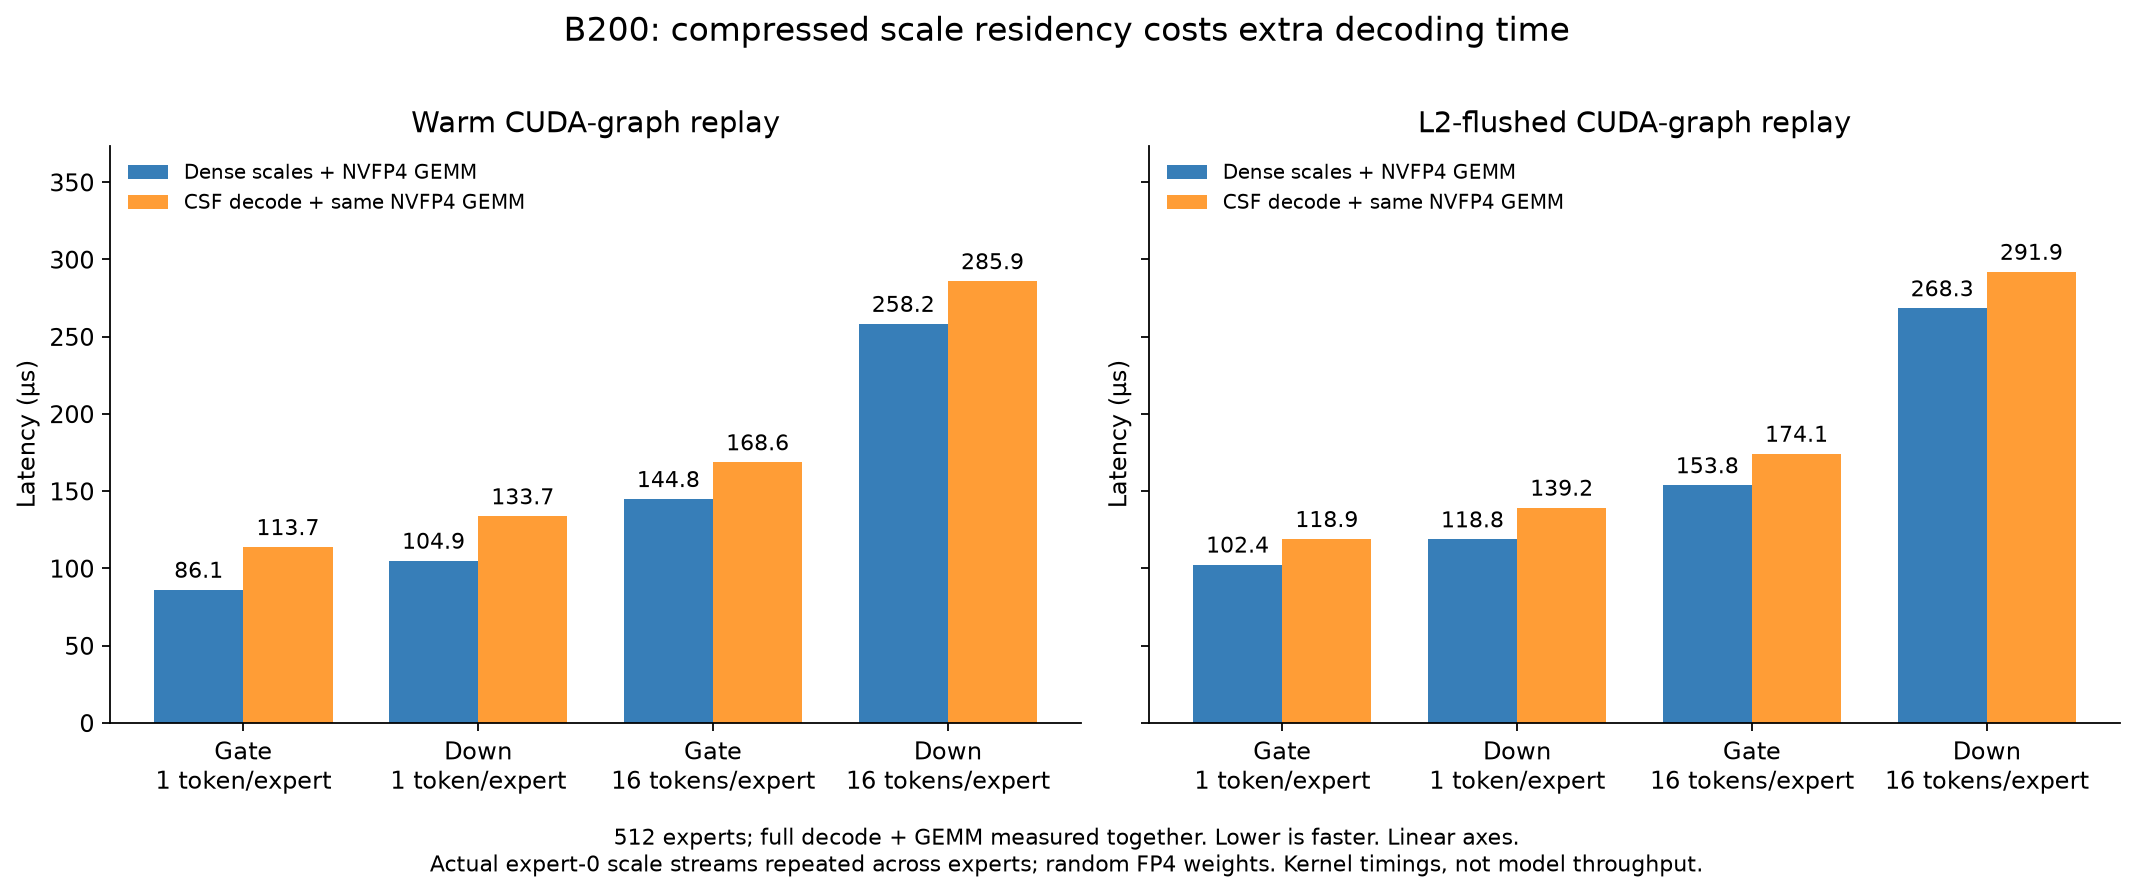
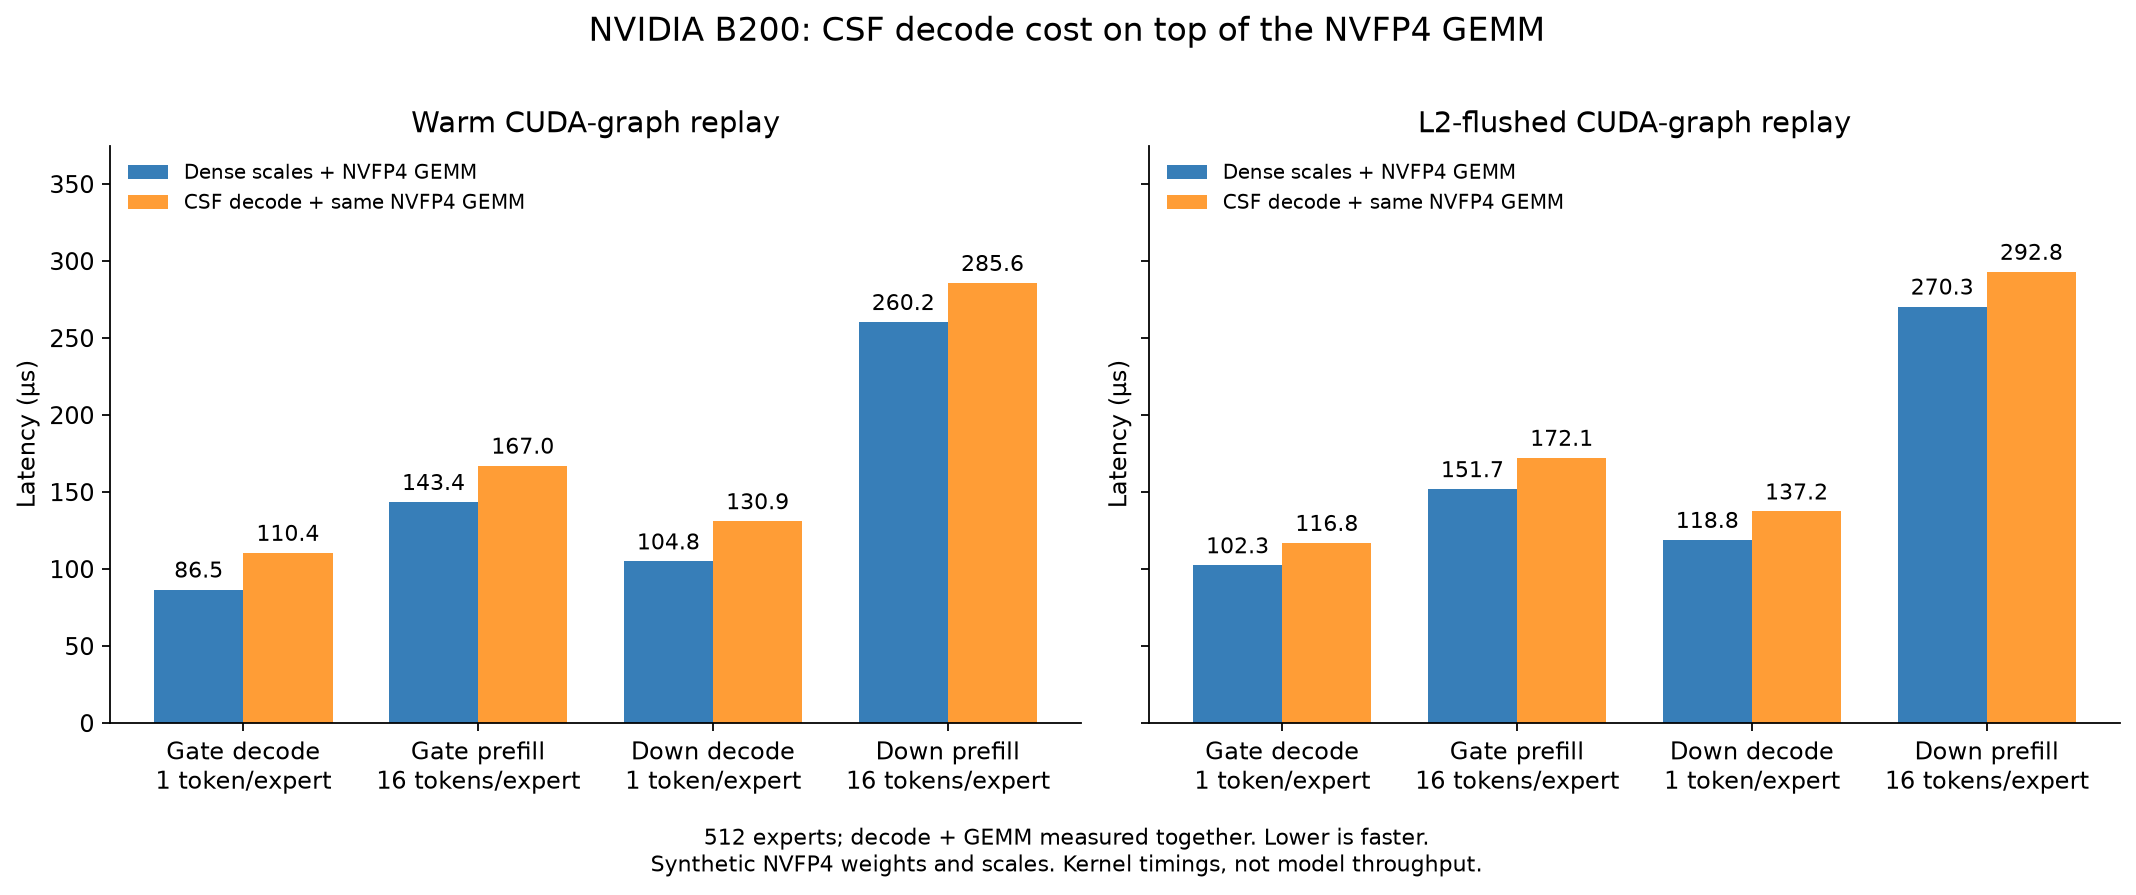
Add CSF bench script and tighten CSF prepare/decode docs and checks
bench/bench_moe_csf.py measures dense vs CSF decode + NVFP4 GEMM and
regenerates both figures (results in bench_moe_csf.json). Document the
CSF stream layout and returns, explain the exception patch pass, drop
decoder checks that prepare already guarantees, and split the test
fixture into prepare_csf.

diff --git a/finegrained-kernels/bench/bench_moe_csf.py b/finegrained-kernels/bench/bench_moe_csf.py
@@ -1,0 +1,250 @@
+# Copyright 2026 The HuggingFace Inc. team. All rights reserved.
+#
+# Licensed under the Apache License, Version 2.0 (the "License");
+# you may not use this file except in compliance with the License.
+# You may obtain a copy of the License at
+#
+#     http://www.apache.org/licenses/LICENSE-2.0
+#
+# Unless required by applicable law or agreed to in writing, software
+# distributed under the License is distributed on an "AS IS" BASIS,
+# WITHOUT WARRANTIES OR CONDITIONS OF ANY KIND, either express or implied.
+# See the License for the specific language governing permissions and
+# limitations under the License.
+"""NVFP4 CSF scales: decode + GEMM latency and scale memory against dense scales.
+
+Two 512-expert MoE projections (gate: N=640, K=2560; down: N=2560, K=640) are quantized per
+expert from random bf16 weights with ``nvfp4_quantize_two_level``, and their E4M3 scales are
+CSF-encoded with the tests' fixture encoder. Both arms run the same NVFP4 GEMM:
+
+  dense   dense scales resident
+  csf     ``decompress_nvfp4_csf_scales`` into one shared workspace, then the GEMM
+
+Decode routes 1 token per expert through ``matmul_batched``; prefill routes ``--prefill``
+tokens per expert through ``matmul_grouped``. Each arm is captured in a CUDA graph and timed
+warm (``do_bench_cudagraph``) and L2-flushed (``do_bench`` on the replay, which clears L2
+outside the timed interval). Tuning finishes before timing. The csf arm's scales and outputs
+are checked bit-identical to the dense arm's.
+
+Scales come from synthetic weights. How well CSF compresses depends on how far the scale
+bytes spread within a row, so real checkpoints can compress better or worse.
+
+Writes ``bench/bench_moe_csf.json``, ``bench/bench_moe_csf_latency.png`` and
+``bench/bench_moe_csf_memory.png`` beside this file.
+
+Run: python bench/bench_moe_csf.py                 (measure, then plot)
+     python bench/bench_moe_csf.py --replot        (rebuild the figures from the JSON)
+"""
+
+import argparse
+import json
+import os
+import sys
+
+_ROOT = os.path.dirname(os.path.dirname(os.path.abspath(__file__)))
+sys.path.insert(0, os.path.join(_ROOT, "torch-ext"))
+sys.path.insert(0, os.path.join(_ROOT, "tests"))
+
+import torch  # noqa: E402
+
+import finegrained_kernels  # noqa: E402
+from finegrained_kernels.quant import nvfp4_quantize_two_level  # noqa: E402
+from utils import encode_csf_scales  # noqa: E402  tests/utils.py fixture encoder
+
+OUT_DIR = os.path.dirname(os.path.abspath(__file__))
+RESULTS = os.path.join(OUT_DIR, "bench_moe_csf.json")
+PROJECTIONS = (("gate", 640, 2560), ("down", 2560, 640))
+BLUE, ORANGE, GRAY = "#377eb8", "#ff9d36", "#969696"
+
+
+def latency(fn):
+    """Warm and L2-flushed CUDA-graph replay of ``fn``, in microseconds."""
+    from triton.testing import do_bench, do_bench_cudagraph
+
+    fn()
+    torch.cuda.synchronize()
+    graph = torch.cuda.CUDAGraph()
+    with torch.cuda.graph(graph):
+        fn()
+    return dict(
+        warm_us=1000 * do_bench_cudagraph(fn, rep=200),
+        cold_us=1000 * do_bench(graph.replay, warmup=100, rep=200, return_mode="median"),
+    )
+
+
+def quantize_stack(experts, N, K):
+    """Per-expert two-level NVFP4: packed weights, E4M3 scales and fp32 globals."""
+    weights, scales, globals_ = [], [], []
+    for _ in range(experts):
+        packed, scale, global_scale = nvfp4_quantize_two_level(
+            torch.randn(N, K, device="cuda", dtype=torch.bfloat16)
+        )
+        weights.append(packed)
+        scales.append(scale)
+        globals_.append(global_scale.reshape(()))
+    return torch.stack(weights), torch.stack(scales), torch.stack(globals_).float()
+
+
+def measure(args):
+    torch.manual_seed(1234)
+    records = []
+    for projection, N, K in PROJECTIONS:
+        weights, dense, global_scale = quantize_stack(args.experts, N, K)
+        fixed, exceptions = encode_csf_scales(dense)
+        streams = finegrained_kernels.prepare_nvfp4_csf_scales(
+            fixed.cuda(), [stream.cuda() for stream in exceptions]
+        )
+        workspace = torch.empty_like(dense)
+        decoded = finegrained_kernels.decompress_nvfp4_csf_scales(*streams)
+        assert torch.equal(decoded.view(torch.uint8), dense.view(torch.uint8))
+        memory = dict(
+            csf_bytes=sum(t.numel() * t.element_size() for t in streams),
+            dense_bytes=dense.numel(),
+        )
+        for regime, tokens in (("decode", 1), ("prefill", args.prefill)):
+            A = torch.randn(
+                tokens * args.experts, K, device="cuda", dtype=torch.bfloat16
+            )
+            kwargs = dict(activation_format="nvfp4", b_global_scale=global_scale)
+            if regime == "decode":
+                op = finegrained_kernels.matmul_batched
+                kwargs["expert_ids"] = torch.arange(
+                    args.experts, device="cuda", dtype=torch.int32
+                )
+            else:
+                op = finegrained_kernels.matmul_grouped
+                kwargs["expert_start"] = tokens * torch.arange(
+                    args.experts + 1, device="cuda", dtype=torch.int32
+                )
+
+            def run_dense():
+                return op(A, weights, Bs=dense, **kwargs)
+
+            def run_csf():
+                finegrained_kernels.decompress_nvfp4_csf_scales(*streams, out=workspace)
+                return op(A, weights, Bs=workspace, **kwargs)
+
+            assert torch.equal(run_csf(), run_dense())
+            record = dict(
+                device=torch.cuda.get_device_name(),
+                projection=projection,
+                N=N,
+                K=K,
+                experts=args.experts,
+                regime=regime,
+                tokens_per_expert=tokens,
+                **memory,
+                dense=latency(run_dense),
+                csf=latency(run_csf),
+            )
+            print(json.dumps(record), flush=True)
+            records.append(record)
+    with open(RESULTS, "w") as f:
+        json.dump(records, f, indent=2)
+    return records
+
+
+def plot(records):
+    import matplotlib
+
+    matplotlib.use("Agg")
+    import matplotlib.pyplot as plt
+    import numpy as np
+
+    plt.rcParams.update(
+        {"font.size": 11, "axes.spines.top": False, "axes.spines.right": False}
+    )
+    device, experts = records[0]["device"], records[0]["experts"]
+    sizes = {r["projection"]: r for r in records}
+    dense_mb = [sizes[p]["dense_bytes"] / 1e6 for p, _, _ in PROJECTIONS]
+    csf_mb = [sizes[p]["csf_bytes"] / 1e6 for p, _, _ in PROJECTIONS]
+    workspace_mb = max(dense_mb)
+
+    fig, axes = plt.subplots(1, 2, figsize=(13.5, 5.0))
+    ax = axes[0]
+    x = np.arange(len(PROJECTIONS))
+    ax.bar_label(ax.bar(x - 0.19, dense_mb, 0.38, label="Dense scales", color=BLUE), fmt="%.2f", padding=3)
+    ax.bar_label(ax.bar(x + 0.19, csf_mb, 0.38, label="CSF streams", color=ORANGE), fmt="%.2f", padding=3)
+    ax.set(
+        xticks=x,
+        xticklabels=[f"{p.title()} projection" for p, _, _ in PROJECTIONS],
+        ylabel="Scale storage (MB, decimal)",
+        ylim=(0, max(dense_mb) * 1.25),
+        title="Stored scales per expert stack",
+    )
+    ax.legend(frameon=False, loc="upper right")
+    ax = axes[1]
+    layers = np.array([1, 2, 4, 8, 16])
+    x = np.arange(len(layers))
+    dense = layers * sum(dense_mb)
+    csf = layers * sum(csf_mb)
+    ax.bar_label(ax.bar(x - 0.19, dense, 0.38, label="Dense scales", color=BLUE), fmt="%.0f", padding=3, fontsize=9)
+    ax.bar(x + 0.19, csf, 0.38, label="CSF streams", color=ORANGE)
+    bars = ax.bar(
+        x + 0.19, np.full(len(x), workspace_mb), 0.38, bottom=csf,
+        label="One shared dense workspace", color=GRAY, hatch="///", edgecolor="white",
+    )
+    ax.bar_label(bars, labels=[f"{v:.0f}" for v in csf + workspace_mb], padding=3, fontsize=9)
+    ax.set(
+        xticks=x,
+        xticklabels=layers,
+        xlabel="Resident layers (one gate + down stack per layer)",
+        ylabel="Scales + shared workspace (MB)",
+        ylim=(0, max(dense) * 1.18),
+        title="Reusing one workspace across layers",
+    )
+    ax.legend(frameon=False, fontsize=9)
+    fig.suptitle(f"NVFP4 CSF scale memory — {experts} experts, scale tensors only", fontsize=15, y=1.01)
+    fig.text(
+        0.5, -0.06,
+        "Synthetic scales from random weights; the right panel scales the measured per-stack sizes.\n"
+        "FP4 weights, activations and other model memory are excluded. Compression is lossless.",
+        ha="center", fontsize=10,
+    )
+    fig.tight_layout()
+    fig.savefig(os.path.join(OUT_DIR, "bench_moe_csf_memory.png"), dpi=160, bbox_inches="tight")
+    plt.close(fig)
+
+    fig, axes = plt.subplots(1, 2, figsize=(13.5, 5.0), sharey=True)
+    for ax, key, title in zip(
+        axes, ("warm_us", "cold_us"), ("Warm CUDA-graph replay", "L2-flushed CUDA-graph replay")
+    ):
+        x = np.arange(len(records))
+        dense = [r["dense"][key] for r in records]
+        csf = [r["csf"][key] for r in records]
+        ax.bar_label(ax.bar(x - 0.19, dense, 0.38, color=BLUE, label="Dense scales + NVFP4 GEMM"), fmt="%.1f", padding=3, fontsize=10)
+        ax.bar_label(ax.bar(x + 0.19, csf, 0.38, color=ORANGE, label="CSF decode + same NVFP4 GEMM"), fmt="%.1f", padding=3, fontsize=10)
+        labels = [
+            f"{r['projection'].title()} {r['regime']}\n{r['tokens_per_expert']} token{'s' if r['tokens_per_expert'] != 1 else ''}/expert"
+            for r in records
+        ]
+        ax.set(xticks=x, xticklabels=labels, ylabel="Latency (µs)", title=title, ylim=(0, max(dense + csf) * 1.28))
+        ax.legend(frameon=False, fontsize=9, loc="upper left")
+    fig.suptitle(f"{device}: CSF decode cost on top of the NVFP4 GEMM", fontsize=15, y=1.01)
+    fig.text(
+        0.5, -0.06,
+        f"{experts} experts; decode + GEMM measured together. Lower is faster.\n"
+        "Synthetic NVFP4 weights and scales. Kernel timings, not model throughput.",
+        ha="center", fontsize=10,
+    )
+    fig.tight_layout()
+    fig.savefig(os.path.join(OUT_DIR, "bench_moe_csf_latency.png"), dpi=160, bbox_inches="tight")
+    plt.close(fig)
+
+
+def main():
+    parser = argparse.ArgumentParser(description=__doc__, formatter_class=argparse.RawDescriptionHelpFormatter)
+    parser.add_argument("--experts", type=int, default=512)
+    parser.add_argument("--prefill", type=int, default=16, help="tokens per expert in the prefill regime")
+    parser.add_argument("--replot", action="store_true", help="rebuild the figures from the JSON")
+    args = parser.parse_args()
+    if args.replot:
+        with open(RESULTS) as f:
+            records = json.load(f)
+    else:
+        records = measure(args)
+    plot(records)
+
+
+if __name__ == "__main__":
+    main()

diff --git a/finegrained-kernels/torch-ext/finegrained_kernels/loading/scales.py b/finegrained-kernels/torch-ext/finegrained_kernels/loading/scales.py
@@ -340,12 +340,28 @@ def prepare_nvfp4_csf_scales(
 ) -> tuple[torch.Tensor, torch.Tensor, torch.Tensor]:
     """Prepare one matrix or an expert stack without expanding or moving its scales.
 
-    `fixed` is uint8 `[rows/16, 16*(1+cols/2)]`, or the same shape with an
-    expert dimension. Exceptions are uint32 `[count]` for one matrix, or one
-    tensor per expert; low 24 bits locate a scale and high 8 bits replace it.
-    Returns (fixed, concatenated exceptions, expert offsets) on the input device.
-    Decode on the accelerator at load time for dense residency, or into shared
-    scratch immediately before GEMM.
+    CSF stores each row of E4M3 scale bytes as a base plus 4-bit deltas, which is
+    lossless whenever a row's bytes span at most 16 codes; the rest are exceptions.
+
+    - `fixed` is uint8 `[rows/16, 16*(1+cols/2)]`, or the same shape with a leading
+      expert dimension. Each 16-row slab holds 16 row bases (bytes 0..240), then those
+      rows' deltas, two per byte (even column in the low nibble). Scale `(r, c)` decodes
+      to byte `base[r] + delta[r, c]`.
+    - `exceptions` is one uint32 `[count]` tensor for a matrix, or one per expert, for
+      the scales outside their row's window. Each word is `position | byte << 24`:
+      the low 24 bits are the row-major index `r * cols + c` (sorted and unique), the
+      high 8 bits are the exact E4M3 byte, which overwrites the decoded value.
+
+    Returns, on the input device:
+
+    - `fixed`: contiguous `[experts, rows/16, 16*(1+cols/2)]` (a 2D input gains `experts=1`).
+    - `exceptions`: every expert's words concatenated into one uint32 vector.
+    - `expert_offsets`: uint32 `[experts + 1]` prefix sums; expert `e` owns
+      `exceptions[expert_offsets[e]:expert_offsets[e + 1]]`.
+
+    These are `decompress_nvfp4_csf_scales`' inputs. Decode on the accelerator at load time
+    for dense residency, or into shared scratch immediately before GEMM. The checks here
+    run once per checkpoint load, off the forward path, so the decoder does not repeat them.
     """
     if fixed.dtype != torch.uint8 or fixed.ndim not in (2, 3):
         raise ValueError("CSF fixed stream must be a 2D or 3D uint8 tensor")
@@ -498,6 +514,9 @@ def _decompress_into(
             4096,
             ALIGNED_OUTPUT=out.storage_offset() % 2 == 0,
         )
+        # The fixed stream decodes every scale branch-free as base + delta, including the
+        # few outside their row's 16-code window. This second, small pass overwrites those
+        # positions with their exact bytes (stream order runs after the first kernel).
         if exceptions.numel():
             compile_time_only_triton_wrap(_apply_exceptions_kernel)[(experts,)](
                 exceptions, expert_offsets, out, expert_start, rows * cols, 256
@@ -521,30 +540,14 @@ def decompress_nvfp4_csf_scales(
     A shared dense workspace saves memory across layers, not within one layer.
     Pass the grouped GEMM's cumulative `expert_start` to decode only experts with
     routed tokens. Inactive workspace planes stay untouched and must not be read.
+
+    The streams must come from `prepare_nvfp4_csf_scales`, which validates them; only
+    `out` and `expert_start`, which are new here, are checked.
     """
-    if fixed.dtype != torch.uint8 or fixed.ndim != 3 or not fixed.is_contiguous():
-        raise ValueError("CSF fixed stream must be contiguous 3D uint8")
     if fixed.device.type == "cpu":
         raise ValueError("CSF decompression requires an accelerator")
     experts, slabs, slab_bytes = fixed.shape
-    if experts == 0 or slabs == 0 or slab_bytes <= 16 or slab_bytes % 16:
-        raise ValueError("Invalid CSF slab shape")
-    if (
-        exceptions.dtype != torch.uint32
-        or exceptions.ndim != 1
-        or not exceptions.is_contiguous()
-        or expert_offsets.dtype != torch.uint32
-        or expert_offsets.shape != (experts + 1,)
-        or not expert_offsets.is_contiguous()
-    ):
-        raise ValueError(
-            "CSF exceptions and expert offsets must be contiguous uint32 vectors of prepared shape"
-        )
     rows, cols = slabs * 16, (slab_bytes // 16 - 1) * 2
-    if rows * cols > 1 << 24:
-        raise ValueError(
-            "CSF exception positions support at most 2**24 scales per matrix"
-        )
     shape = (experts, rows, cols)
     if out is None:
         out = torch.empty(shape, dtype=torch.float8_e4m3fn, device=fixed.device)

diff --git a/finegrained-kernels/tests/utils.py b/finegrained-kernels/tests/utils.py
@@ -507,18 +507,22 @@ def encode_csf_scales(scales):
     return fixed, streams
 
 
-def prepare_weight_scales(scales, csf_encoding, fn, compiled=False):
-    """Wrap a matrix Problem's existing op; compiled cases capture decode + GEMM together."""
-    if not csf_encoding:
-        return maybe_compile(fn, compiled)
+def prepare_csf(scales):
+    """Encode dense NVFP4 scales to prepared CSF buffers, plus a dense decode workspace
+    deliberately offset by one byte (a contiguous workspace need not be two-byte aligned)."""
     fixed, exceptions = encode_csf_scales(scales)
     buffers = prepare_nvfp4_csf_scales(
         fixed.to(scales.device), [stream.to(scales.device) for stream in exceptions]
     )
-
-    # A contiguous workspace need not start on a two-byte boundary.
     workspace = torch.empty(scales.numel() + 1, dtype=scales.dtype, device=scales.device)[1:]
-    workspace = workspace.reshape(-1, *scales.shape[-2:])
+    return buffers, workspace.reshape(-1, *scales.shape[-2:])
+
+
+def prepare_weight_scales(scales, csf_encoding, fn, compiled=False):
+    """Wrap a matrix Problem's existing op; compiled cases capture decode + GEMM together."""
+    if not csf_encoding:
+        return maybe_compile(fn, compiled)
+    buffers, workspace = prepare_csf(scales)
 
     def run(A, B, As, Bs, **kwargs):
         decoded = decompress_nvfp4_csf_scales(
